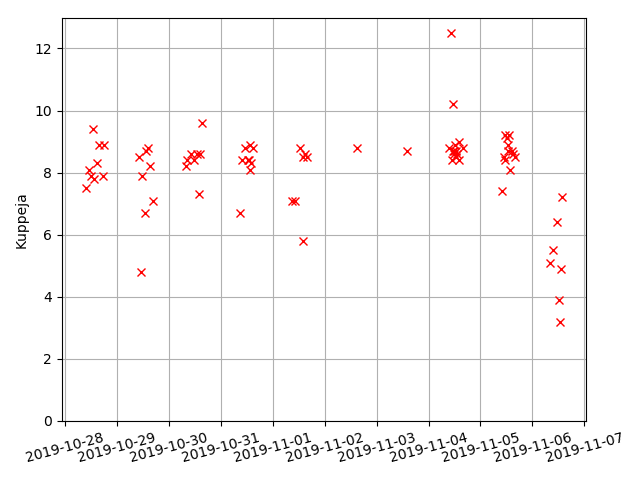
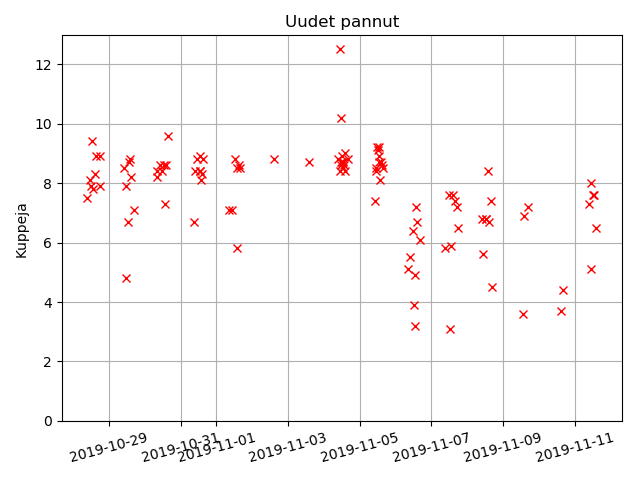
Nov 11th

diff --git a/plot_cups.py b/plot_cups.py
@@ -74,6 +74,7 @@ def listbrewing(times, cups):
         plt.ylabel("Kuppeja")
         plt.grid(which='major')
         plt.xticks(rotation=15)
+        plt.title("Uudet pannut")
         plt.tight_layout()
         plt.savefig("pannut.png")
         #plotcombined(times, cups)
@@ -107,7 +108,7 @@ def plotPotsPerDay(brewtimes, brewcups):
     plt.clf()
     plt.plot(datelist, cuplist, ".")
     plt.plot(datelist, potlist, ".")
-    plt.legend(["Pannullisia","Pannuja"])
+    plt.legend(["Kuppeja","Pannuja"])
     plt.grid(which='major')
     plt.xticks(rotation=10)
     plt.tight_layout()
@@ -130,7 +131,8 @@ def plotPotsPerWeekday(datelist, cuplist, potlist):
         plotlist.append(wd[d])
     plt.cla()
     plt.clf()
-    plt.bar(weekdaysEn, plotlist)
+    plt.bar(weekdaysFi, plotlist)
+    plt.title("Pannullista per viikonpäivä")
     plt.tight_layout()
     plt.savefig("pannutpervkpva.png")
     return 0
@@ -168,7 +170,7 @@ def plotcombined(times, cups):
     #plt.show()
     return 0
 
-#plot last 24h or 3d
+#plot the last 24h or 3d
 def plotTimeperiod(times, cups, period):
     time = datetime.now()
     if period == "24h":
@@ -197,12 +199,16 @@ def plotTimeperiod(times, cups, period):
     #plt.show()
     return 0
 
-[t, c] = openfile()
-#plotcombined(t, c)
-[bt, bc] = listbrewing(t, c)
-[dl, cl, pl] = plotPotsPerDay(bt, bc)
-plotPotsPerWeekday(dl, cl, pl)
-plotPotsPerHour(bt, bc)
-plotTimeperiod(t, c, "24h")
-plotTimeperiod(t, c, "3d")
+def main():
+    [t, c] = openfile()
+    now = datetime.now()
+    [bt, bc] = listbrewing(t, c)
+    [dl, cl, pl] = plotPotsPerDay(bt, bc)
+    plotPotsPerHour(bt, bc)
+    plotTimeperiod(t, c, "24h")
+    plotTimeperiod(t, c, "3d")
+    if now.strftime("%A") == "Sunday":
+        plotPotsPerWeekday(dl, cl, pl)
+    return 0
 
+main()

diff --git a/README.md b/README.md
@@ -1,1 +1,8 @@
-# coffeeplot
+## Kuvat
+
+- `kupit3d`, raakadata edellisen kolmen päivän ajalta
+- `kupit23h`, raakadata edellisen kolmen päivän ajalta
+- `pannut`, montako kupillista kahvia uusissa pannuissa
+- `pannutperpva`, paljonko kahvia keitetty päivän aikana, "Pannullisia" = keittokertojen määrä, "Kuppeja" = keitettyjen kupillisten määrä
+- `pannutpertunti`, montako pannullista (kupit/10) keitetty eri kellonaikoina
+- `pannutpervkpva`, montako pannullista keitetty eri viikonpäivinä
